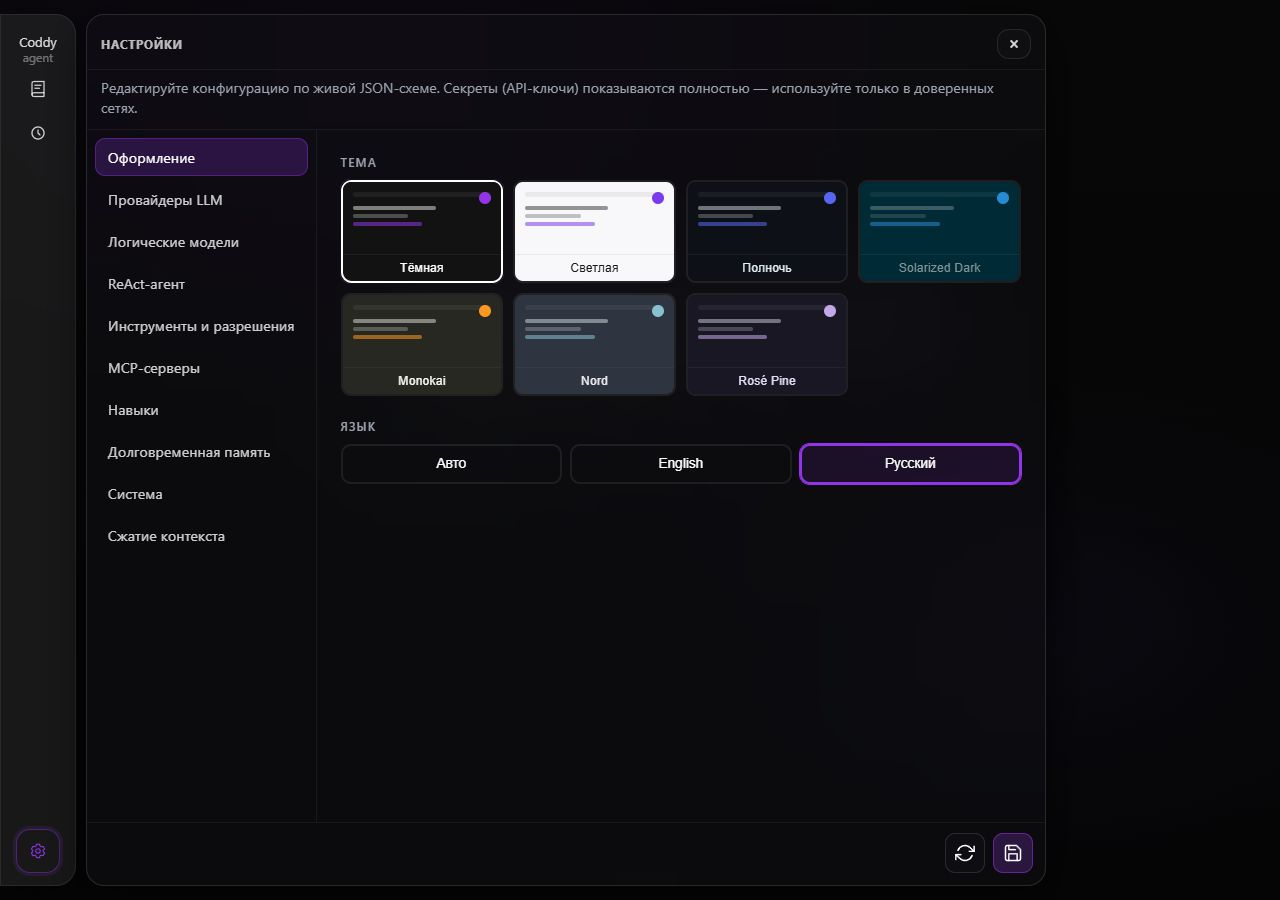
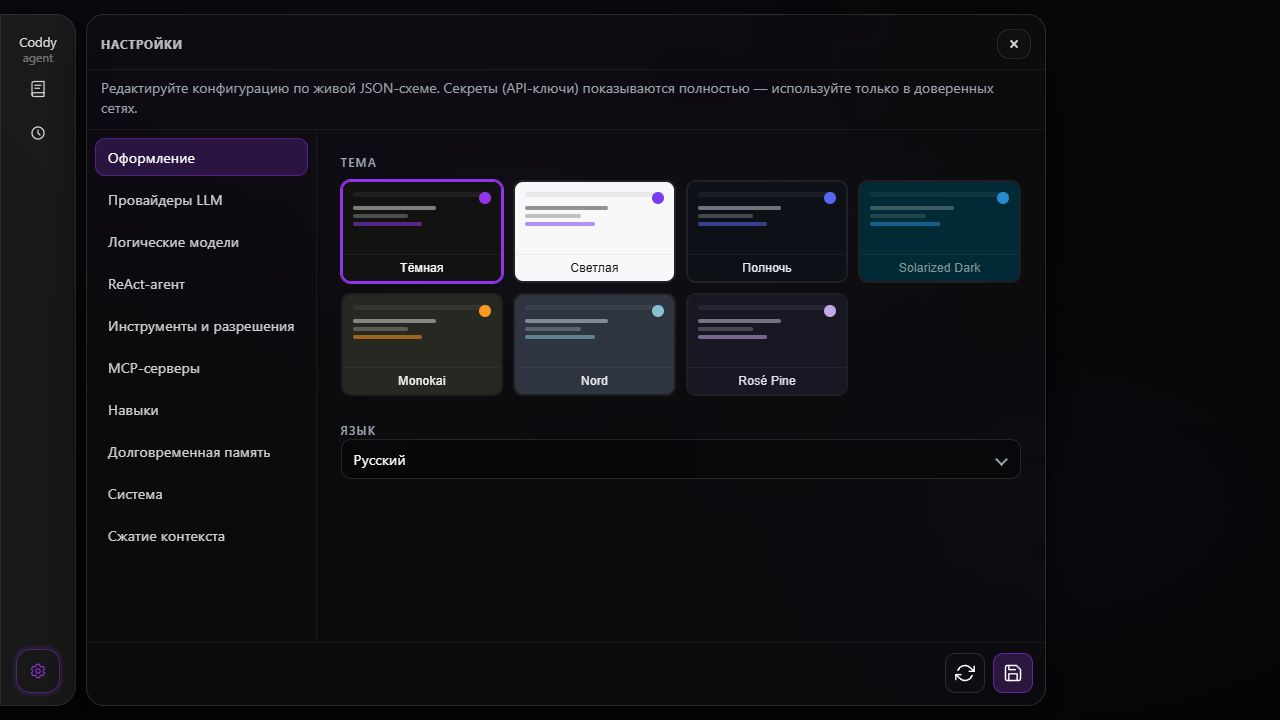
fix(ui): use select for locale picker

diff --git a/external/ui/src/ui/theme/AppearanceModal.tsx b/external/ui/src/ui/theme/AppearanceModal.tsx
@@ -9,7 +9,7 @@ import {
   readNavigatorLanguage,
   type UiLocale,
 } from "../i18n/localeCookie";
-import { UI_LOCALES, UI_LOCALE_IDS } from "../i18n/locales";
+import { isUiLocale, UI_LOCALES, UI_LOCALE_IDS } from "../i18n/locales";
 import { UI_THEME_IDS, LIGHT_THEMES, type UiThemeMode } from "./themeCookie";
 import { readAppliedUiTheme, setUiTheme } from "./uiTheme";
 
@@ -99,25 +99,30 @@ function readLocaleChoice(): LocaleChoice {
   return stored === null ? "auto" : stored;
 }
 
-/** AppearanceLanguagePicker — segmented control under the theme grid.
+/** AppearanceLanguagePicker — language select under the theme grid.
  * "Auto" resolves from navigator.language and stores no cookie; registered
  * locale choices persist `coddy_ui_lang`. Purely client-side (no config save). */
 export function AppearanceLanguagePicker() {
   const { t } = useT();
-  // `choice` (Auto vs explicit locale) is cookie-derived. Tracked in local
-  // state because picking "Auto" can resolve to the already-active locale, in
-  // which case setLocale does not notify subscribers — the local state update
-  // guarantees the highlight re-renders regardless.
+  // `choice` (Auto vs explicit locale) is cookie-derived. Local state keeps the
+  // controlled select accurate even when Auto resolves to the active locale and
+  // the locale store therefore has no change to publish.
   const [choice, setChoice] = useState<LocaleChoice>(() => readLocaleChoice());
 
-  const pick = useCallback((c: LocaleChoice) => {
+  const pick = useCallback((c: string) => {
     if (c === "auto") {
       clearUiLocaleCookie();
       setLocale(mapSystemLocaleToSupported(readNavigatorLanguage()));
-    } else {
-      writeUiLocaleCookie(c);
-      setLocale(c);
+      setChoice(c);
+      return;
     }
+
+    if (!isUiLocale(c)) {
+      return;
+    }
+
+    writeUiLocaleCookie(c);
+    setLocale(c);
     setChoice(c);
   }, []);
 
@@ -134,30 +139,26 @@ export function AppearanceLanguagePicker() {
       className="appearance-lang-block"
       data-testid="appearance-language-picker"
     >
-      <p className="appearance-section-label">
-        {t("appearance.languageLabel")}
-      </p>
-      <div
-        className="appearance-lang-row"
-        role="group"
-        aria-label={t("appearance.languageGroupAria")}
+      <label
+        className="appearance-section-label"
+        htmlFor="appearance-language-select"
       >
-        {options.map((opt) => {
-          const active = opt.id === choice;
-          return (
-            <button
-              key={opt.id}
-              type="button"
-              className={`appearance-lang-option${active ? " is-active" : ""}`}
-              aria-pressed={active}
-              data-active-locale={active ? "true" : "false"}
-              data-testid={`lang-option-${opt.id}`}
-              onClick={() => pick(opt.id)}
-            >
+        {t("appearance.languageLabel")}
+      </label>
+      <div className="appearance-language-select-wrap">
+        <select
+          id="appearance-language-select"
+          className="appearance-language-select"
+          value={choice}
+          data-testid="appearance-language-select"
+          onChange={(event) => pick(event.currentTarget.value)}
+        >
+          {options.map((opt) => (
+            <option key={opt.id} value={opt.id}>
               {opt.label}
-            </button>
-          );
-        })}
+            </option>
+          ))}
+        </select>
       </div>
     </div>
   );

diff --git a/external/ui/src/ui/theme/AppearanceLanguagePicker.test.tsx b/external/ui/src/ui/theme/AppearanceLanguagePicker.test.tsx
@@ -39,47 +39,42 @@ function readCookie(): string | null {
   return null;
 }
 
-test("renders Auto and every registered locale", () => {
+test("renders one language select with Auto and every registered locale", () => {
   render(<AppearanceLanguagePicker />);
-  expect(screen.getByTestId("lang-option-auto")).toBeTruthy();
-  for (const locale of UI_LOCALE_IDS) {
-    expect(screen.getByTestId(`lang-option-${locale}`)).toBeTruthy();
-  }
+  const select = screen.getByRole("combobox", {
+    name: "Language",
+  }) as HTMLSelectElement;
+  expect(select).toBe(screen.getByTestId("appearance-language-select"));
+  expect([...select.options].map((option) => option.value)).toEqual([
+    "auto",
+    ...UI_LOCALE_IDS,
+  ]);
 });
 
-test("Auto is active when no cookie is stored", () => {
+test("Auto is selected when no cookie is stored", () => {
   render(<AppearanceLanguagePicker />);
-  expect(
-    screen.getByTestId("lang-option-auto").getAttribute("data-active-locale"),
-  ).toBe("true");
-  expect(
-    screen.getByTestId("lang-option-en").getAttribute("data-active-locale"),
-  ).toBe("false");
+  expect(screen.getByTestId("appearance-language-select")).toHaveValue("auto");
 });
 
-test("clicking Русский persists the cookie and switches the labels to russian", () => {
+test("selecting Русский persists the cookie and switches the labels to russian", () => {
   render(<AppearanceLanguagePicker />);
-  fireEvent.click(screen.getByTestId("lang-option-ru"));
+  fireEvent.change(screen.getByTestId("appearance-language-select"), {
+    target: { value: "ru" },
+  });
   expect(readCookie()).toBe("ru");
   expect(document.documentElement.lang).toBe("ru");
   // Section heading is now Russian.
   expect(screen.getByText("Язык")).toBeTruthy();
-  // Русский is now the active option.
-  expect(
-    screen.getByTestId("lang-option-ru").getAttribute("data-active-locale"),
-  ).toBe("true");
+  expect(screen.getByTestId("appearance-language-select")).toHaveValue("ru");
 });
 
-test("clicking Auto clears the cookie", () => {
+test("selecting Auto clears the cookie", () => {
   // Start from an explicit ru choice.
   document.cookie = `${CODDY_UI_LANG_COOKIE}=ru; Path=/`;
   render(<AppearanceLanguagePicker />);
-  expect(
-    screen.getByTestId("lang-option-ru").getAttribute("data-active-locale"),
-  ).toBe("true");
-  fireEvent.click(screen.getByTestId("lang-option-auto"));
+  const select = screen.getByTestId("appearance-language-select");
+  expect(select).toHaveValue("ru");
+  fireEvent.change(select, { target: { value: "auto" } });
   expect(readCookie()).toBeNull();
-  expect(
-    screen.getByTestId("lang-option-auto").getAttribute("data-active-locale"),
-  ).toBe("true");
+  expect(select).toHaveValue("auto");
 });

diff --git a/external/ui/src/styles.css b/external/ui/src/styles.css
@@ -8166,35 +8166,53 @@ button.question-prompt-row.question-prompt-row--other.question-prompt-row--activ
   margin-top: 22px;
 }
 
-.appearance-lang-row {
-  display: flex;
-  flex-wrap: wrap;
-  gap: 8px;
+.appearance-language-select-wrap {
+  position: relative;
 }
 
-.appearance-lang-option {
-  flex: 1 1 0;
+.appearance-language-select-wrap::after {
+  content: "";
+  position: absolute;
+  right: 15px;
+  top: calc(50% - 4px);
+  width: 7px;
+  height: 7px;
+  border-right: 2px solid var(--muted);
+  border-bottom: 2px solid var(--muted);
+  transform: rotate(45deg);
+  pointer-events: none;
+}
+
+.appearance-language-select {
+  appearance: none;
+  width: 100%;
   min-width: 0;
   min-height: 40px;
-  padding: 8px 10px;
-  font-size: 0.85rem;
-  font-weight: 500;
+  box-sizing: border-box;
+  padding: 8px 40px 8px 12px;
+  font: inherit;
+  font-size: 0.9rem;
   color: var(--text);
-  background: transparent;
-  border: 2px solid color-mix(in srgb, var(--text) 8%, var(--coddy-blend-base));
+  background: var(--coddy-surface-field);
+  border: 1px solid var(--coddy-glass-panel-border);
   border-radius: 10px;
   cursor: pointer;
-  transition: border-color 120ms ease, box-shadow 120ms ease, background 120ms ease;
+  transition: border-color 120ms ease, box-shadow 120ms ease;
 }
 
-.appearance-lang-option:hover {
+.appearance-language-select:hover {
   border-color: color-mix(in srgb, var(--accent) 50%, transparent);
 }
 
-.appearance-lang-option.is-active {
+.appearance-language-select:focus-visible {
+  outline: none;
   border-color: var(--accent);
   box-shadow: 0 0 0 1px var(--accent);
-  background: color-mix(in srgb, var(--accent) 12%, transparent);
+}
+
+.appearance-language-select option {
+  color: var(--text);
+  background: var(--coddy-surface-field);
 }
 
 .settings-appearance-swatch-dot {

diff --git a/external/ui/src/ui/theme/themeCssContract.test.ts b/external/ui/src/ui/theme/themeCssContract.test.ts
@@ -81,9 +81,11 @@ test("each theme block defines --accent", () => {
   }
 });
 
-test("language options remain three equal segments on narrow settings", () => {
-  const rule = cssText().match(/\.appearance-lang-option\s*\{[^}]*\}/s)?.[0];
-  expect(rule).toMatch(/flex:\s*1 1 0/);
+test("language select fills narrow settings without overflow", () => {
+  const rule = cssText().match(
+    /\.appearance-language-select\s*\{[^}]*\}/s,
+  )?.[0];
+  expect(rule).toMatch(/width:\s*100%/);
   expect(rule).toMatch(/min-width:\s*0/);
-  expect(rule).not.toContain("120px");
+  expect(rule).toMatch(/min-height:\s*40px/);
 });

diff --git a/external/ui/src/ui/i18n/messages/ru.ts b/external/ui/src/ui/i18n/messages/ru.ts
@@ -3,7 +3,6 @@ export const messagesRu: Record<string, string> = {
   "appearance.themeLabel": "Тема",
   "appearance.themeGroupAria": "Тема",
   "appearance.languageLabel": "Язык",
-  "appearance.languageGroupAria": "Язык",
   "appearance.locale.auto": "Авто",
   "appearance.locale.en": "English",
   "appearance.locale.ru": "Русский",

diff --git a/external/ui/src/ui/i18n/messages/en.ts b/external/ui/src/ui/i18n/messages/en.ts
@@ -5,7 +5,6 @@ export const messagesEn: Record<string, string> = {
   "appearance.themeLabel": "Theme",
   "appearance.themeGroupAria": "Theme",
   "appearance.languageLabel": "Language",
-  "appearance.languageGroupAria": "Language",
   "appearance.locale.auto": "Auto",
   "appearance.locale.en": "English",
   "appearance.locale.ru": "Русский",

diff --git a/DESIGN.md b/DESIGN.md
@@ -37,12 +37,12 @@ Store the design reference images under `docs/assets/` and link to the specific 
 
 ### Localization and language
 
-- **Picker:** segmented control **directly under the theme swatch grid** in **Settings → Appearance** (**`AppearanceLanguagePicker`**, **`data-testid="appearance-language-picker"`**). It renders **Auto** followed by every locale in **`UI_LOCALE_IDS`**; the current registry supplies **English** and **Русский** (**`data-testid="lang-option-auto|en|ru"`**). Options reuse the swatch border/accent treatment (`.appearance-lang-option`, `.is-active`, `data-active-locale="true"`). It lives inside `.appearance-sheet-body`, so it inherits the centered placeholder guard covered by `appearanceSettingsLayout.test.tsx`.
+- **Picker:** one native language select **directly under the theme swatch grid** in **Settings → Appearance** (**`AppearanceLanguagePicker`**, **`data-testid="appearance-language-select"`**). It renders **Auto** followed by every locale in **`UI_LOCALE_IDS`**; the current registry supplies **English** and **Русский**. The select fills the available settings width and remains usable on narrow shells. It lives inside `.appearance-sheet-body`, so it inherits the centered placeholder guard covered by `appearanceSettingsLayout.test.tsx`.
 - **Persistence:** cookie **`coddy_ui_lang`** stores a registered locale id (currently `en` or `ru`), with the same lifetime/flags as **`coddy_ui_theme`** (path `/`, `SameSite=Lax`, `; Secure` on https, 1-year `Max-Age`). **Auto** stores no cookie and resolves from **`navigator.language`** on each load; the cookie is cleared when Auto is chosen. Purely client-side — no config save (matches the Appearance tab convention).
 - **Bootstrap:** **`main.tsx`** calls **`initLocale(bootstrapUiLocaleFromUrlOrCookie())`** before React mounts; resolution order is **`?lang=<registered-id>`** (URL, also persisted to the cookie) > cookie > **`navigator.language`**. Sets **`document.documentElement.lang`**.
 - **i18n engine:** **`external/ui/src/ui/i18n/`** — `translate(key, params)` / `t`, a locale store with `useSyncExternalStore` subscriptions, and **`I18nProvider`** + **`useT()`**. **`locales.ts`** is the single registry for supported locale ids, picker label keys, and dictionaries; **`main.tsx`** wraps the app and shared confirmation provider in **`I18nProvider`**. Dictionaries use dot-notation keys grouped by area. **`useT()` works without a provider** (falls back to `translate`), so components render in tests without wrapping; default-English values match the former hardcoded literals exactly so existing English-asserting tests keep passing.
 - **Dictionary contract:** every registered dictionary must contain the same keys and interpolation tokens as the default locale. Add or change the key in every dictionary in the same patch; `messagesParity.test.ts` validates the contract and prevents a newly registered locale from silently drifting.
-- **Reactivity:** the highlight is driven by local `choice` state (cookie-derived), because picking **Auto** can resolve to the already-active locale (no locale-store notification); label translation re-renders via the locale store subscription.
+- **Reactivity:** the controlled select value is driven by local `choice` state (cookie-derived), because picking **Auto** can resolve to the already-active locale (no locale-store notification); label translation re-renders via the locale store subscription.
 - **Coverage:** the **Appearance** and **Settings** surfaces are fully translated (Settings shell, sections, MCP, Skills, CodexAuth, ModelField/Picker, Combobox). Shared destructive confirmations for drafts, chats, and scheduler jobs are translated too. Remaining conversation surfaces (chat, composer, sessions, messages, scheduler, tasks, tour) translate incrementally through the same registry.
 
 ### Frosted glass panels

diff --git a/docs/ui.md b/docs/ui.md
@@ -15,7 +15,7 @@ This page captures the original UI requirements and the intended end state. It i
 - **Default:** dark theme on first visit; language resolves from **`navigator.language`** (RU if Russian, else EN).
 - **Theme cookie:** **`coddy_ui_theme`** with the seven theme ids (**`dark`**, **`light`**, **`midnight`**, **`solarized-dark`**, **`monokai`**, **`nord`**, **`rose-pine`**; path **`/`**, **`SameSite=Lax`**, 1-year `Max-Age`).
 - **Theme picker:** **Settings** (**`#/settings`**) → **Appearance** → theme swatch grid (**`data-testid="theme-swatch-<id>"`** inside **`appearance-theme-picker`**). Selection applies immediately and is client-side only (no config save).
-- **Language picker:** segmented control **directly under the theme grid** (**`data-testid="appearance-language-picker"`**) with **Auto** (resolves from **`navigator.language`**, stores no cookie) followed by every locale registered in **`locales.ts`**. The current registry renders **English** and **Русский** as **`data-testid="lang-option-en|ru"`**; the active option carries **`data-active-locale="true"`**.
+- **Language picker:** one native select **directly under the theme grid** (**`data-testid="appearance-language-select"`**) with **Auto** (resolves from **`navigator.language`**, stores no cookie) followed by every locale registered in **`locales.ts`**. The current registry renders **English** and **Русский**; changing the select applies the locale immediately.
 - **Language cookie:** **`coddy_ui_lang`** stores a registered locale id (currently **`en`** or **`ru`**), with the same flags as the theme cookie. Choosing **Auto** clears it. Resolution order on load: **`?lang=<registered-id>`** in the URL (also persisted to the cookie) > cookie > **`navigator.language`**. Switching sets **`document.documentElement.lang`** and re-renders without a reload. Purely client-side (no config save).
 - **i18n engine:** **`external/ui/src/ui/i18n/`** (**`translate`/`t`**, locale store, **`I18nProvider`** + **`useT()`**). **`locales.ts`** is the single registry for supported ids, picker labels, and dictionaries; picker generation, locale validation, bootstrap, and parity tests derive from it. **`main.tsx`** wraps the app plus shared confirmation provider in **`I18nProvider`**. **`useT()` falls back to `translate` outside a provider**, so components render in tests without wrapping; default-English values match the former hardcoded literals exactly.
 - **Locale maintenance:** adding a locale requires its dictionary plus one **`locales.ts`** entry. Every registered dictionary must add or change the same key and interpolation tokens in one patch; **`messagesParity.test.ts`** enforces both.
